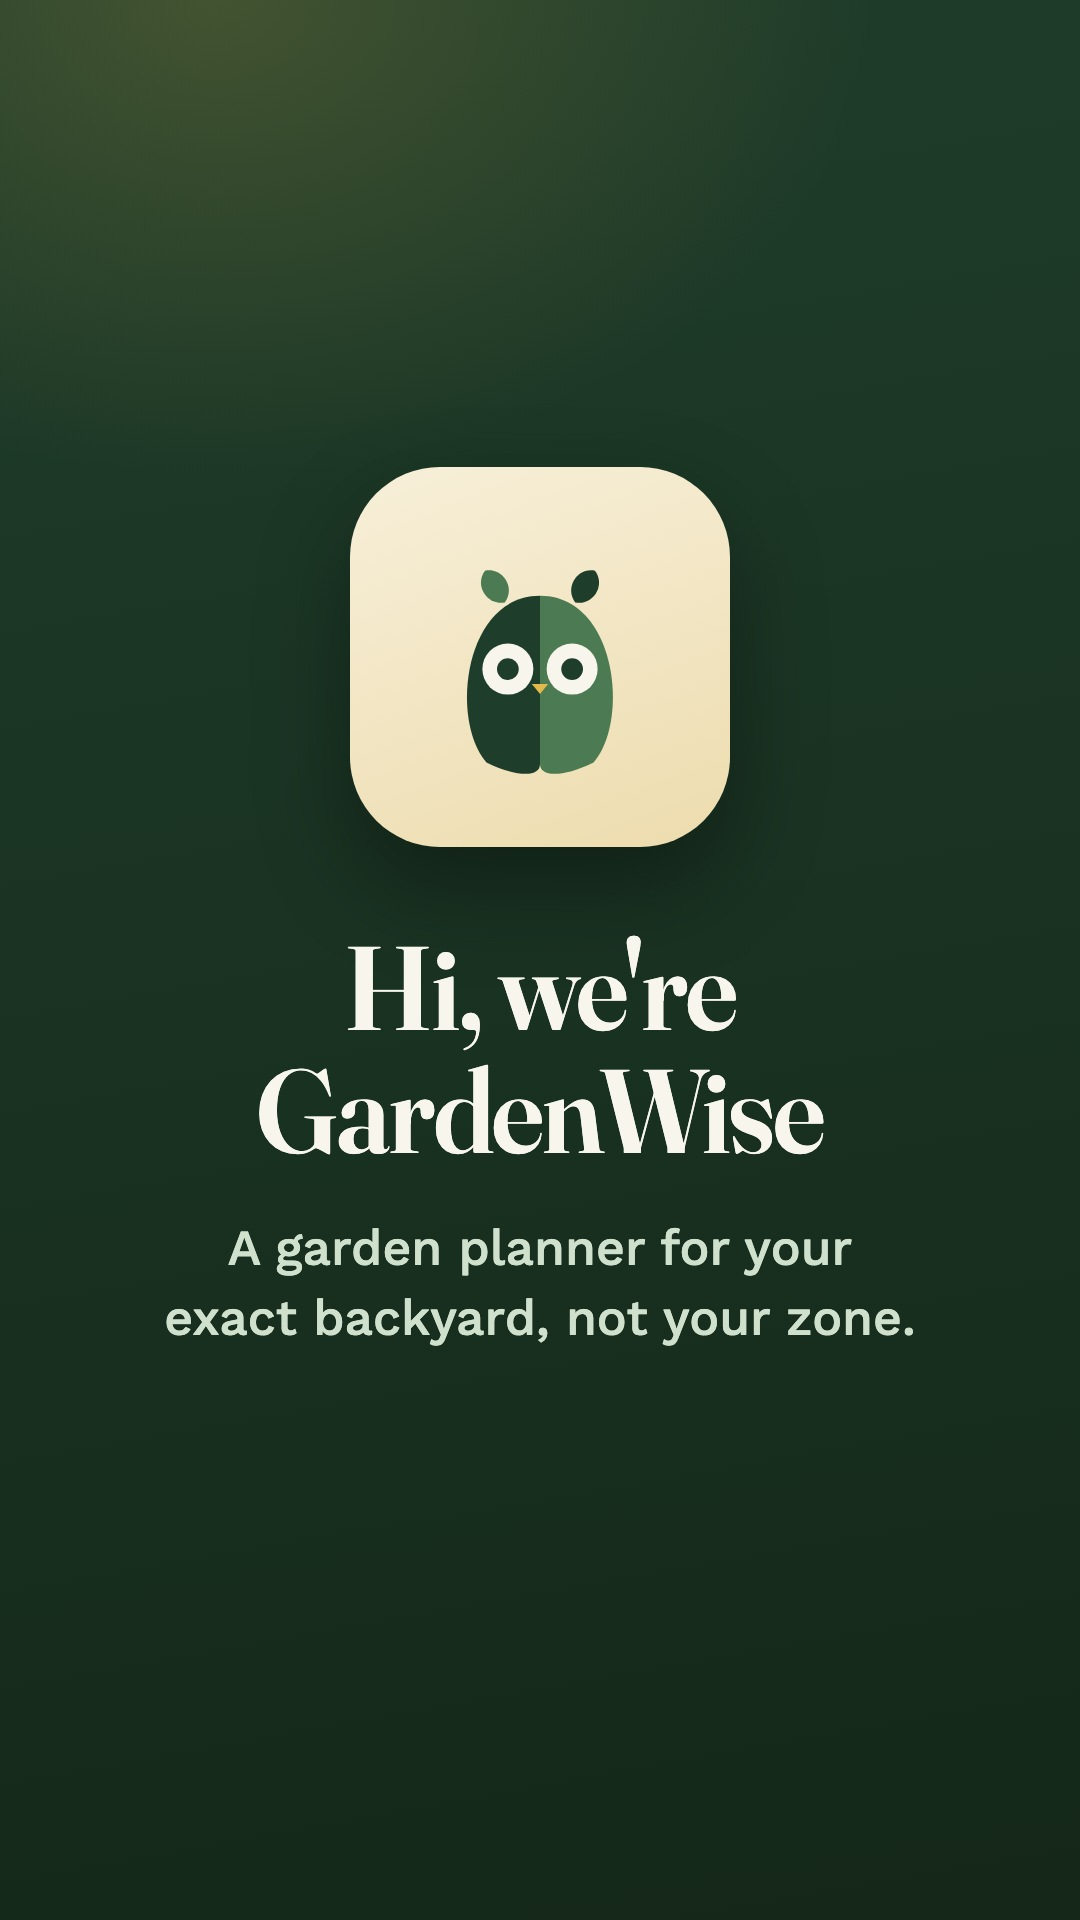
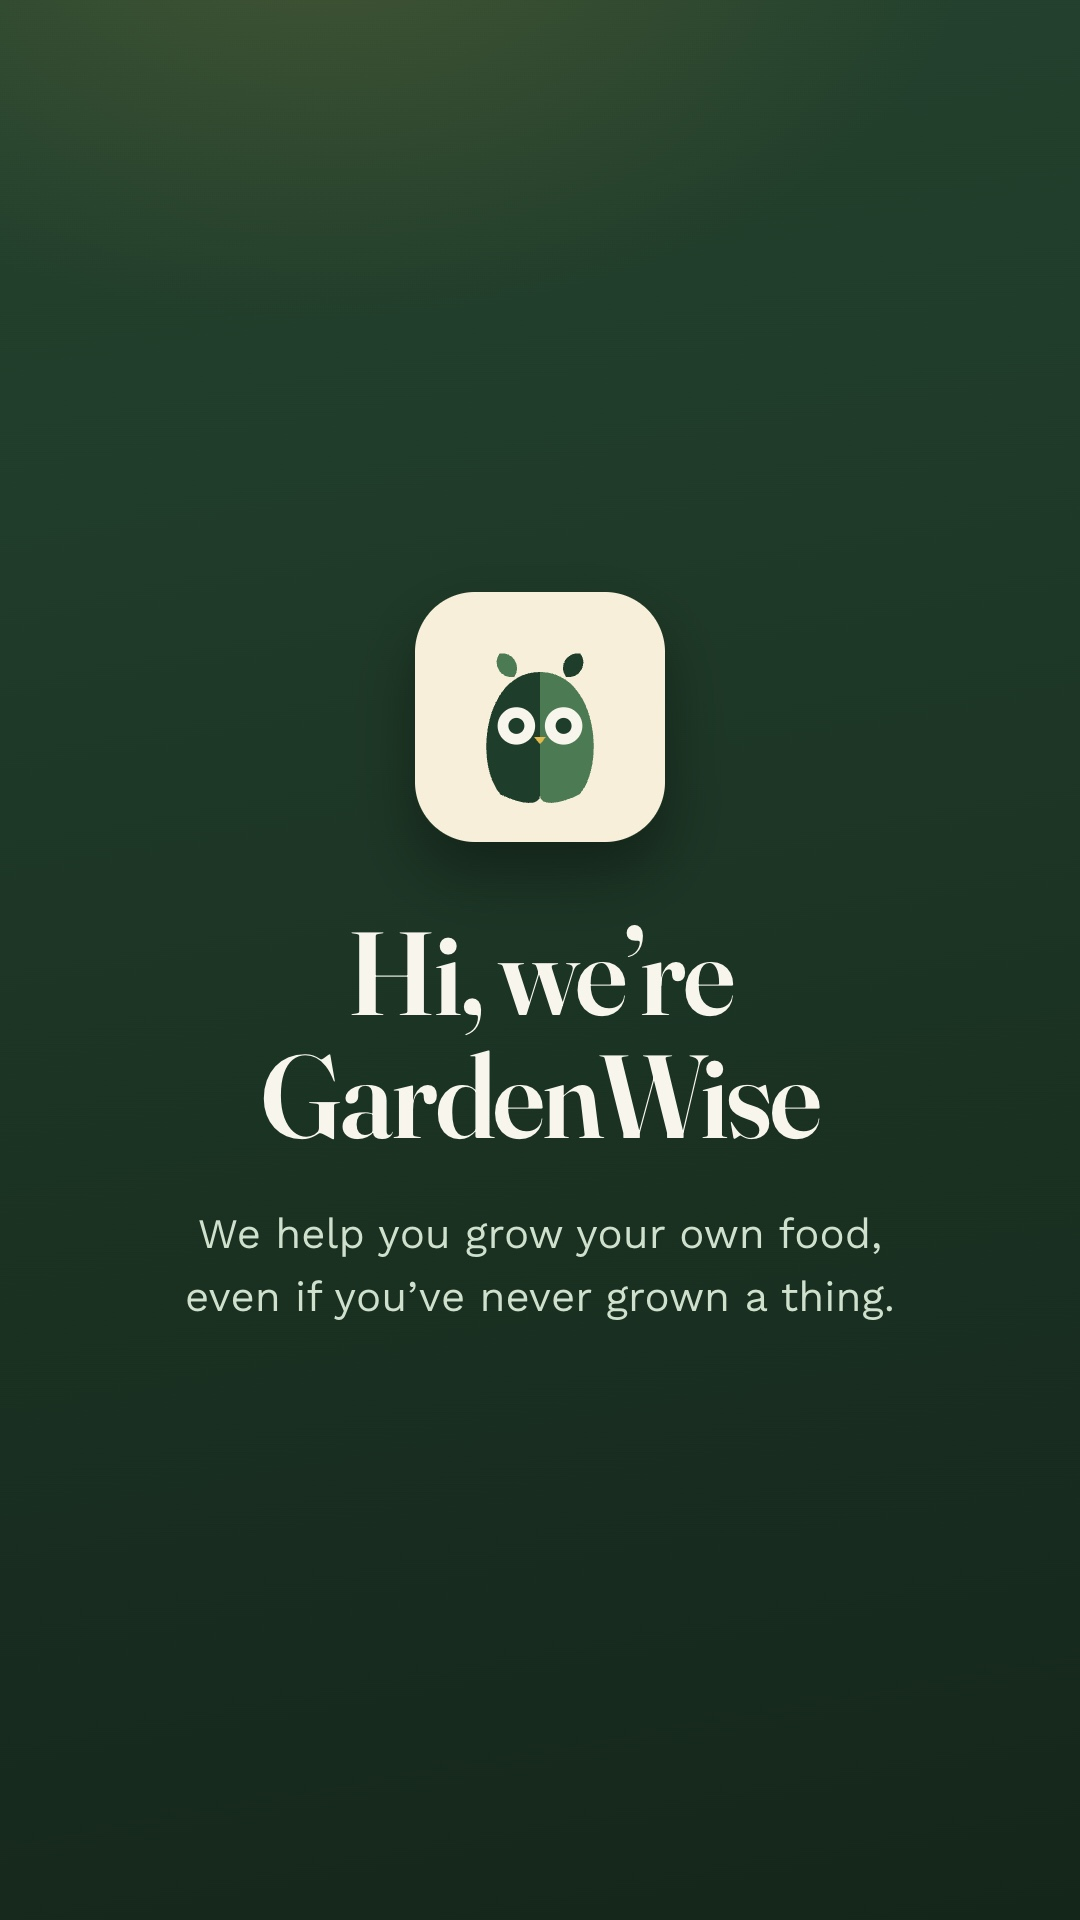
DRAFT: About highlight rebuilt for 'grow your own food'; new social bios

Changed region(s): [[0.1528, 0.2188, 0.825, 0.7188]]

diff --git a/marketing/instagram/instagram-plan.md b/marketing/instagram/instagram-plan.md
@@ -2,22 +2,24 @@
 
 ## Profile
 - **Profile picture:** profile-picture.jpg
-- **Name** (27/30, searchable): GardenWise | Garden Planner
+- **Name** (30/30, searchable): GardenWise: Grow Your Own Food
 - **Username ideas:** @gardenwise.app · @gardenwiseapp · @gardenwise.io
-- **Bio** (104/150):
+- **Bio** (121/150):
 
-Garden advice for your exact backyard 🌱
-Seed & care dates timed to your frost
-📲 iPhone app coming soon ↓
+Grow your own food, even if you've never grown a thing 🌱
+What to plant, when & how, for where you live
+📲 Free on iPhone ↓
 
+- **TikTok bio** (73/80): Grow your own food 🌱 Even if you've never grown a thing. Free on iPhone ↓
+- **Facebook intro** (88/101): Grow your own food, even if you've never grown a thing. Free garden planner for iPhone 🌱
 - **Link:** https://gardenwise.io/?ref=instagram (the ?ref=instagram part tags waitlist signups that came from Instagram)
 - **Category:** App Page (Business or Creator account)
 
-## About highlight
-Files in highlight-about/: about-1.jpg … about-5.jpg (stories, 1080×1920) and about-cover.jpg.
-1. Post about-1 to about-5 as stories, in order (all within a minute or two).
-2. On about-5, optionally add a Link sticker → https://gardenwise.io/?ref=instagram, placed below the gardenwise.io button.
-3. Profile → + (New highlight) → select the five stories → name it "About" → Edit cover → choose about-cover.jpg from your photos.
+## About highlight ("Grow your own food" version)
+Files in highlight-about/: about-1.jpg … about-5.jpg (stories, 1080×1920) and about-cover.jpg (unchanged). The launch-era set is in highlight-about/previous-launch/.
+1. Post about-1 to about-5 as stories, in order.
+2. On about-5, optionally add a Link sticker → https://gardenwise.io/?ref=instagram, below "Tap the link in our bio".
+3. Open the About highlight → ⋯ → Edit highlight → under Selected, untick the old five → under Stories, tick the new five → Done. The cover stays.
 
 ## The grid: post in this order
 Instagram shows the newest post top-left, so post 1 goes first and ends up bottom-right. Post all nine in one sitting, in order, so the puzzle lines up. Upload at full 3:4 size (don't crop to square or 4:5). Five hashtags per post (Instagram's current limit).
